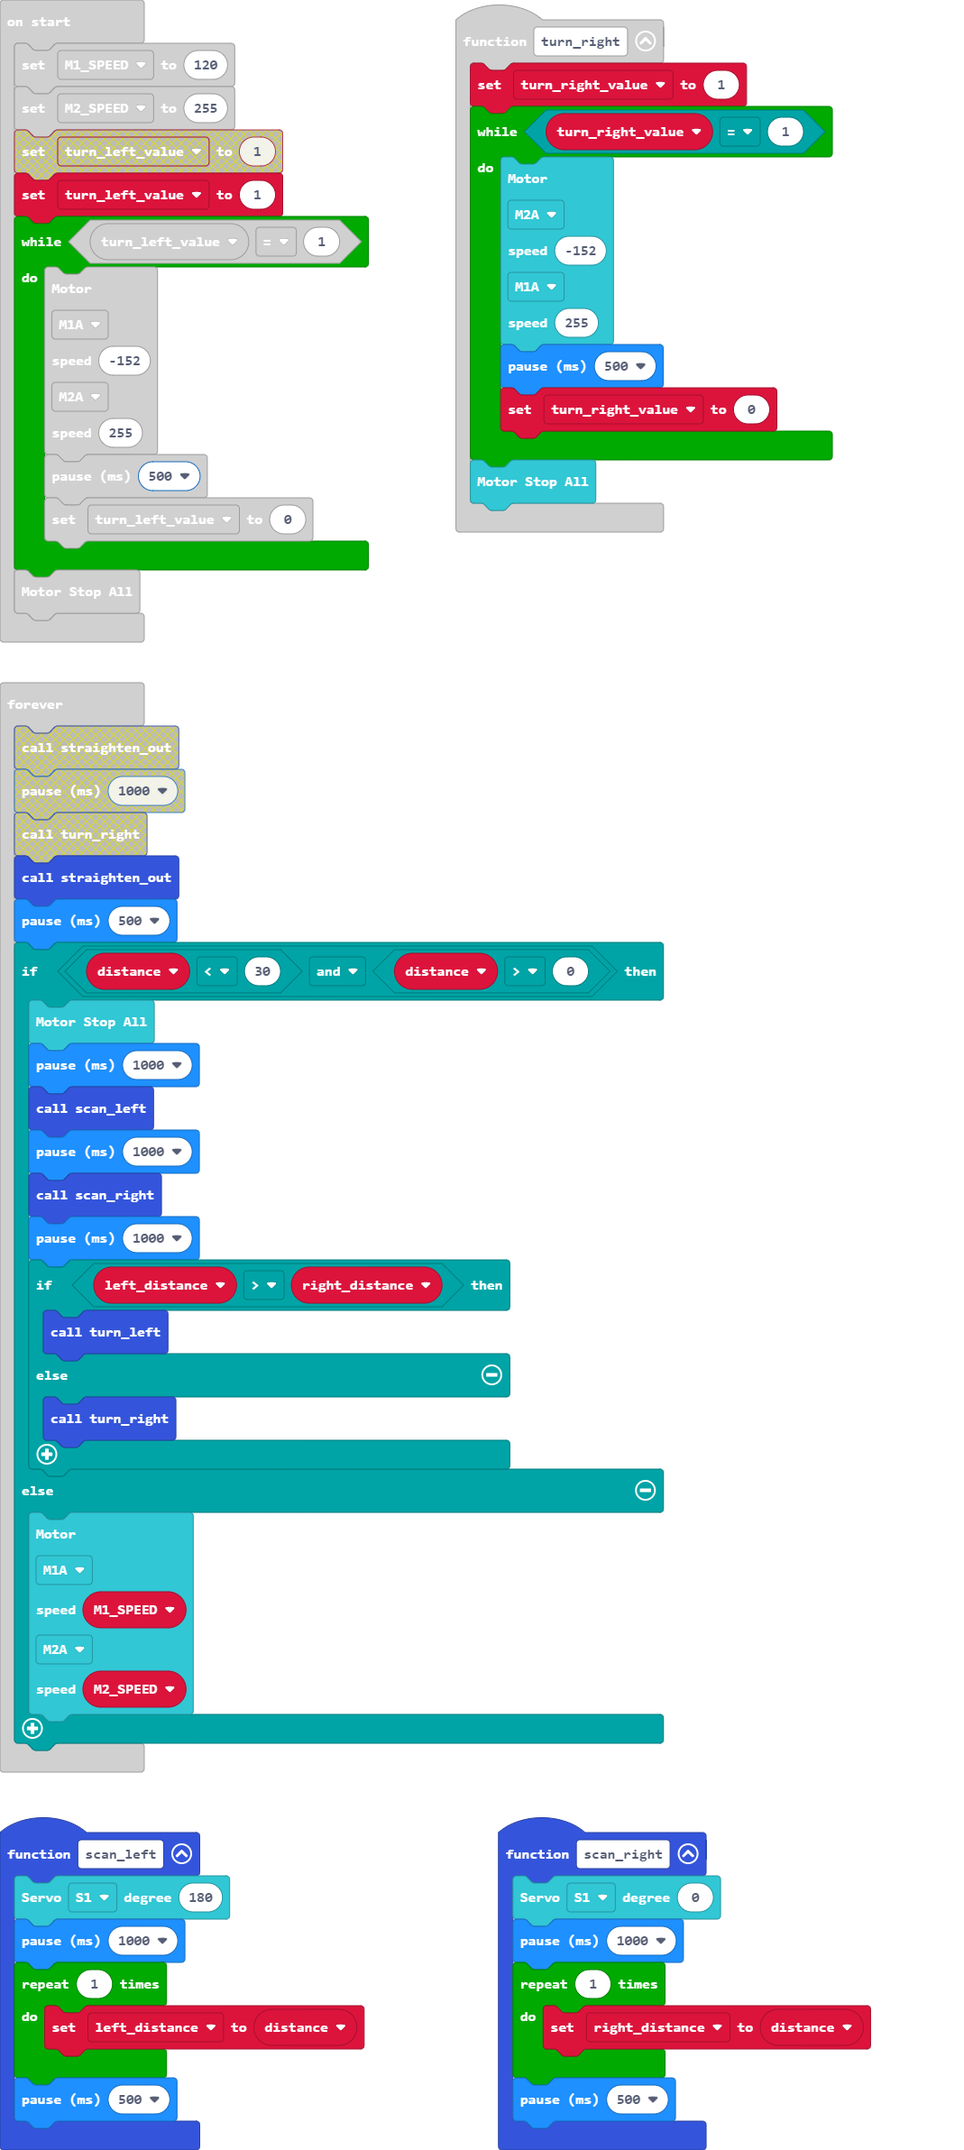
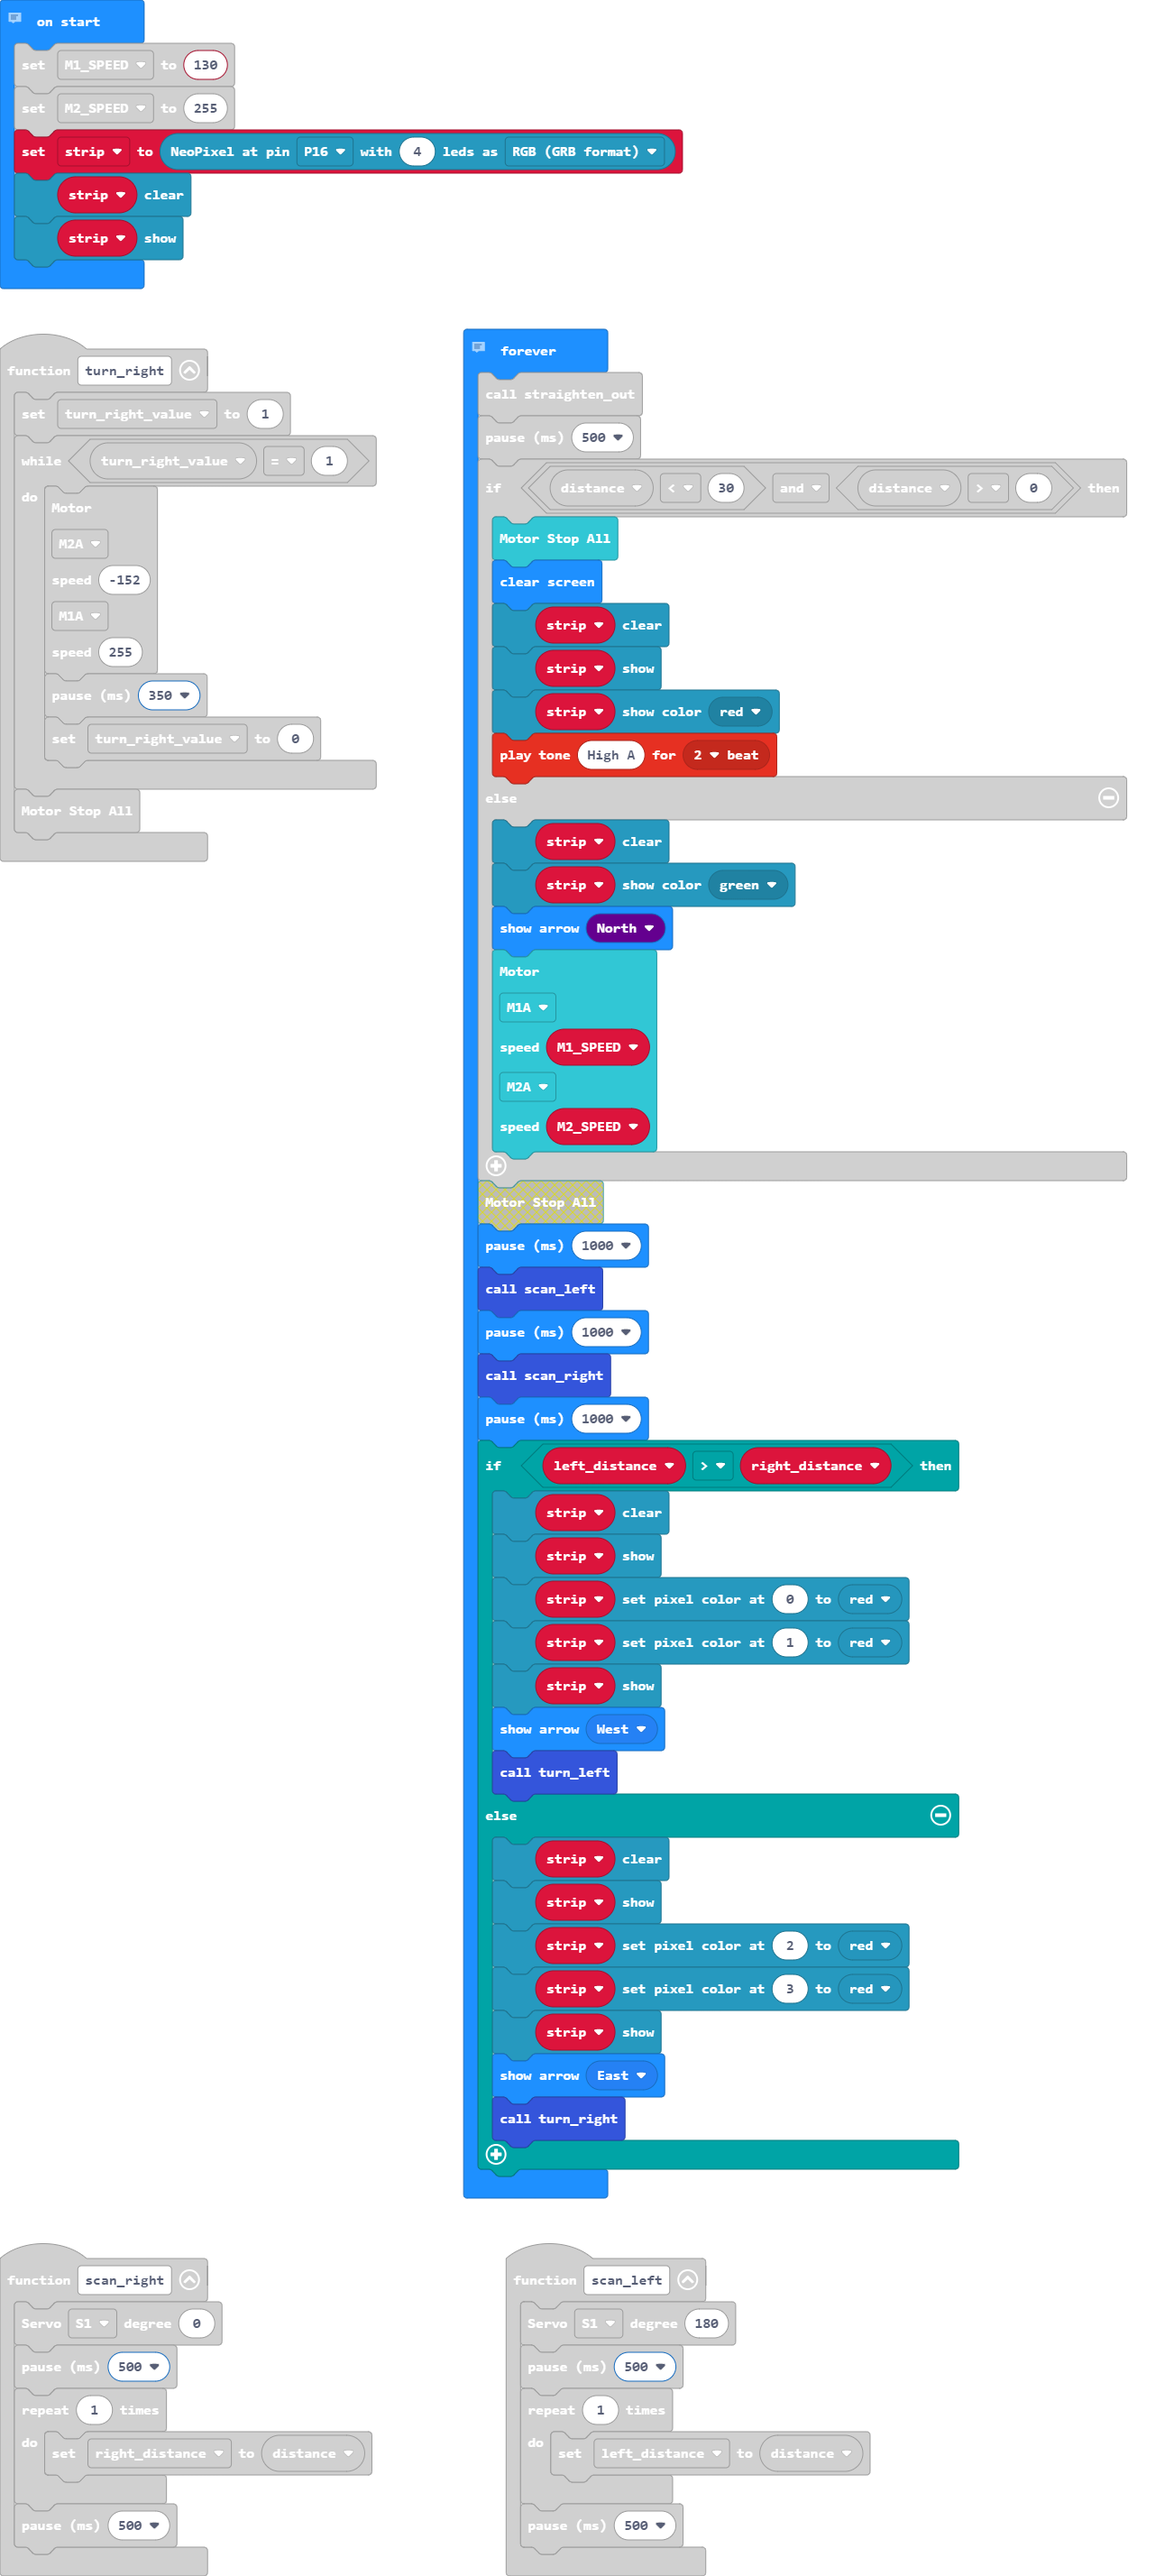
Update main.blocks, main.ts

diff --git a/main.ts b/main.ts
@@ -1,6 +1,6 @@
 function scan_right () {
     robotbit.Servo(robotbit.Servos.S1, 0)
-    basic.pause(1000)
+    basic.pause(500)
     for (let index = 0; index < 1; index++) {
         right_distance = distance
     }
@@ -25,7 +25,7 @@ function turn_left () {
 }
 function scan_left () {
     robotbit.Servo(robotbit.Servos.S1, 180)
-    basic.pause(1000)
+    basic.pause(500)
     for (let index = 0; index < 1; index++) {
         left_distance = distance
     }
@@ -40,34 +40,63 @@ function turn_right () {
         robotbit.Motors.M1A,
         255
         )
-        basic.pause(500)
+        basic.pause(350)
         turn_right_value = 0
     }
     robotbit.MotorStopAll()
 }
+// Created by: Evan
+// Created on: November 6, 2020
+// 
+// This program controls an automonous car using a ping sensor
 let turn_right_value = 0
 let left_distance = 0
 let turn_left_value = 0
 let distance = 0
 let right_distance = 0
-let M1_SPEED = 120
+let M1_SPEED = 130
 let M2_SPEED = 255
+let strip = neopixel.create(DigitalPin.P16, 4, NeoPixelMode.RGB)
+strip.clear()
+strip.show()
+// Main Code
+// 
 basic.forever(function () {
     straighten_out()
     basic.pause(500)
     if (distance < 30 && distance > 0) {
         robotbit.MotorStopAll()
+        basic.clearScreen()
+        strip.clear()
+        strip.show()
+        strip.showColor(neopixel.colors(NeoPixelColors.Red))
+        music.playTone(880, music.beat(BeatFraction.Double))
         basic.pause(1000)
         scan_left()
         basic.pause(1000)
         scan_right()
         basic.pause(1000)
         if (left_distance > right_distance) {
+            strip.clear()
+            strip.show()
+            strip.setPixelColor(0, neopixel.colors(NeoPixelColors.Red))
+            strip.setPixelColor(1, neopixel.colors(NeoPixelColors.Red))
+            strip.show()
+            basic.showArrow(ArrowNames.West)
             turn_left()
         } else {
+            strip.clear()
+            strip.show()
+            strip.setPixelColor(2, neopixel.colors(NeoPixelColors.Red))
+            strip.setPixelColor(3, neopixel.colors(NeoPixelColors.Red))
+            strip.show()
+            basic.showArrow(ArrowNames.East)
             turn_right()
         }
     } else {
+        strip.clear()
+        strip.showColor(neopixel.colors(NeoPixelColors.Green))
+        basic.showArrow(ArrowNames.North)
         robotbit.MotorRunDual(
         robotbit.Motors.M1A,
         M1_SPEED,
